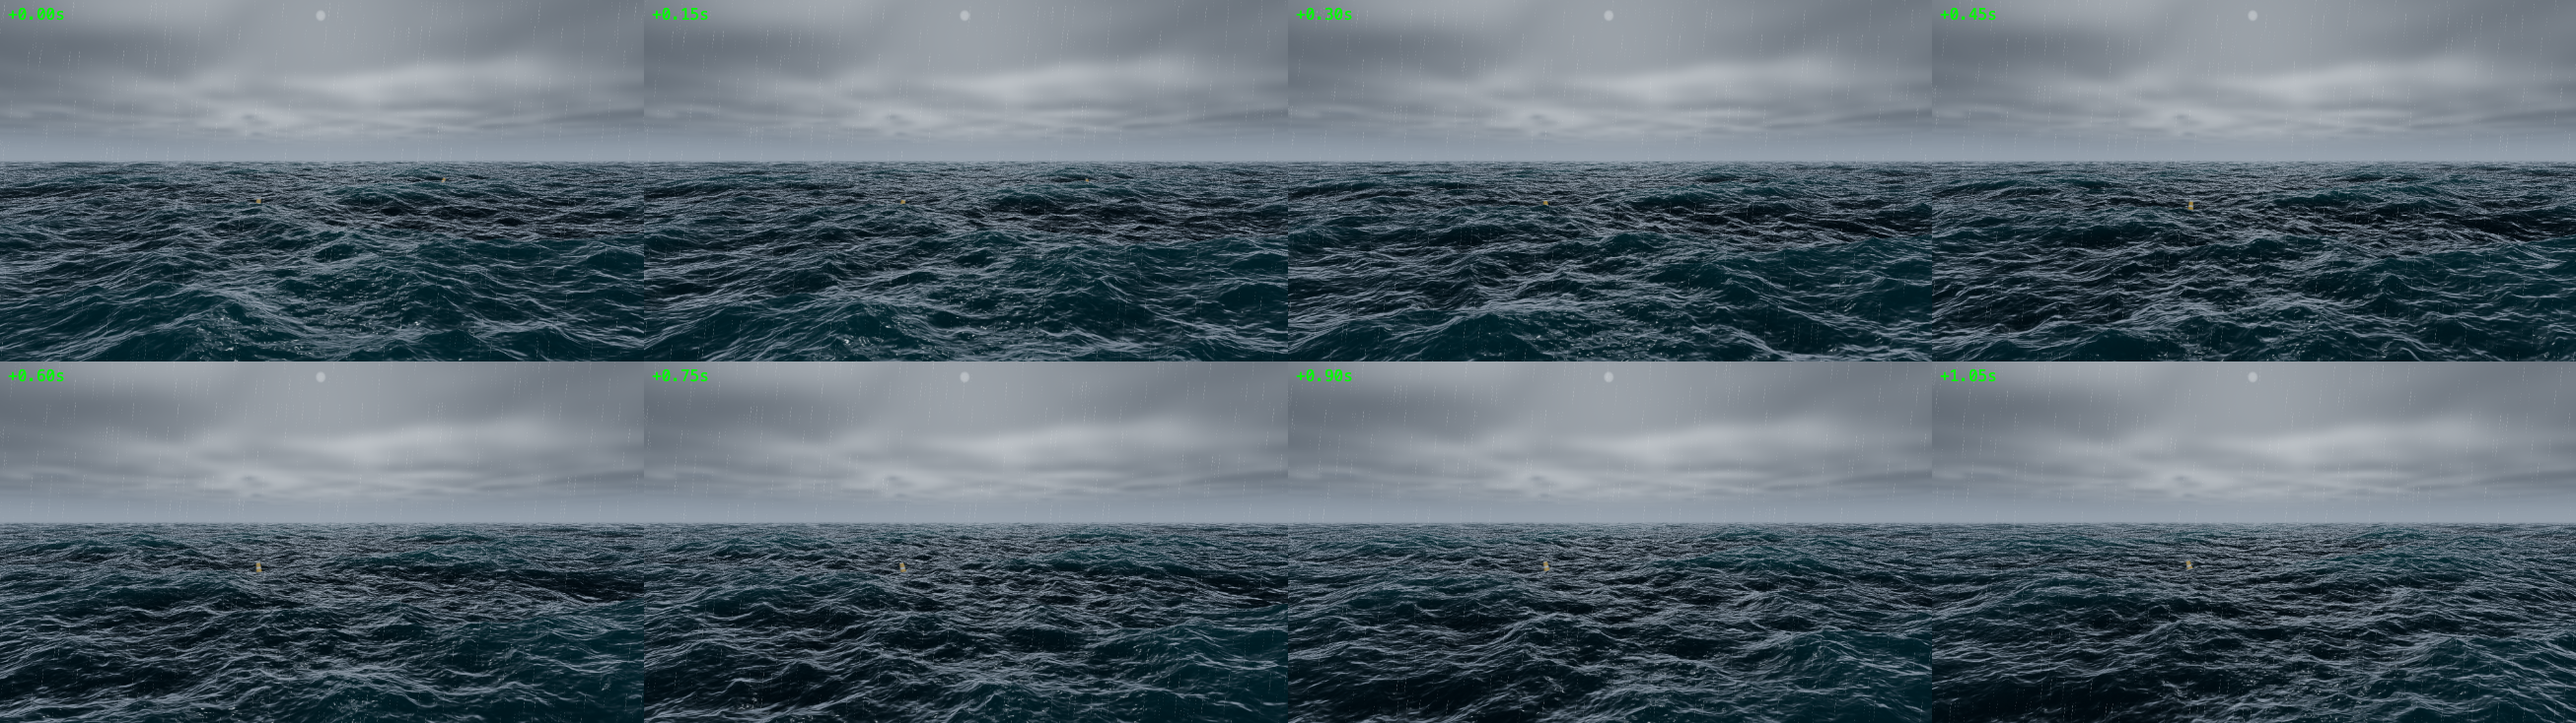
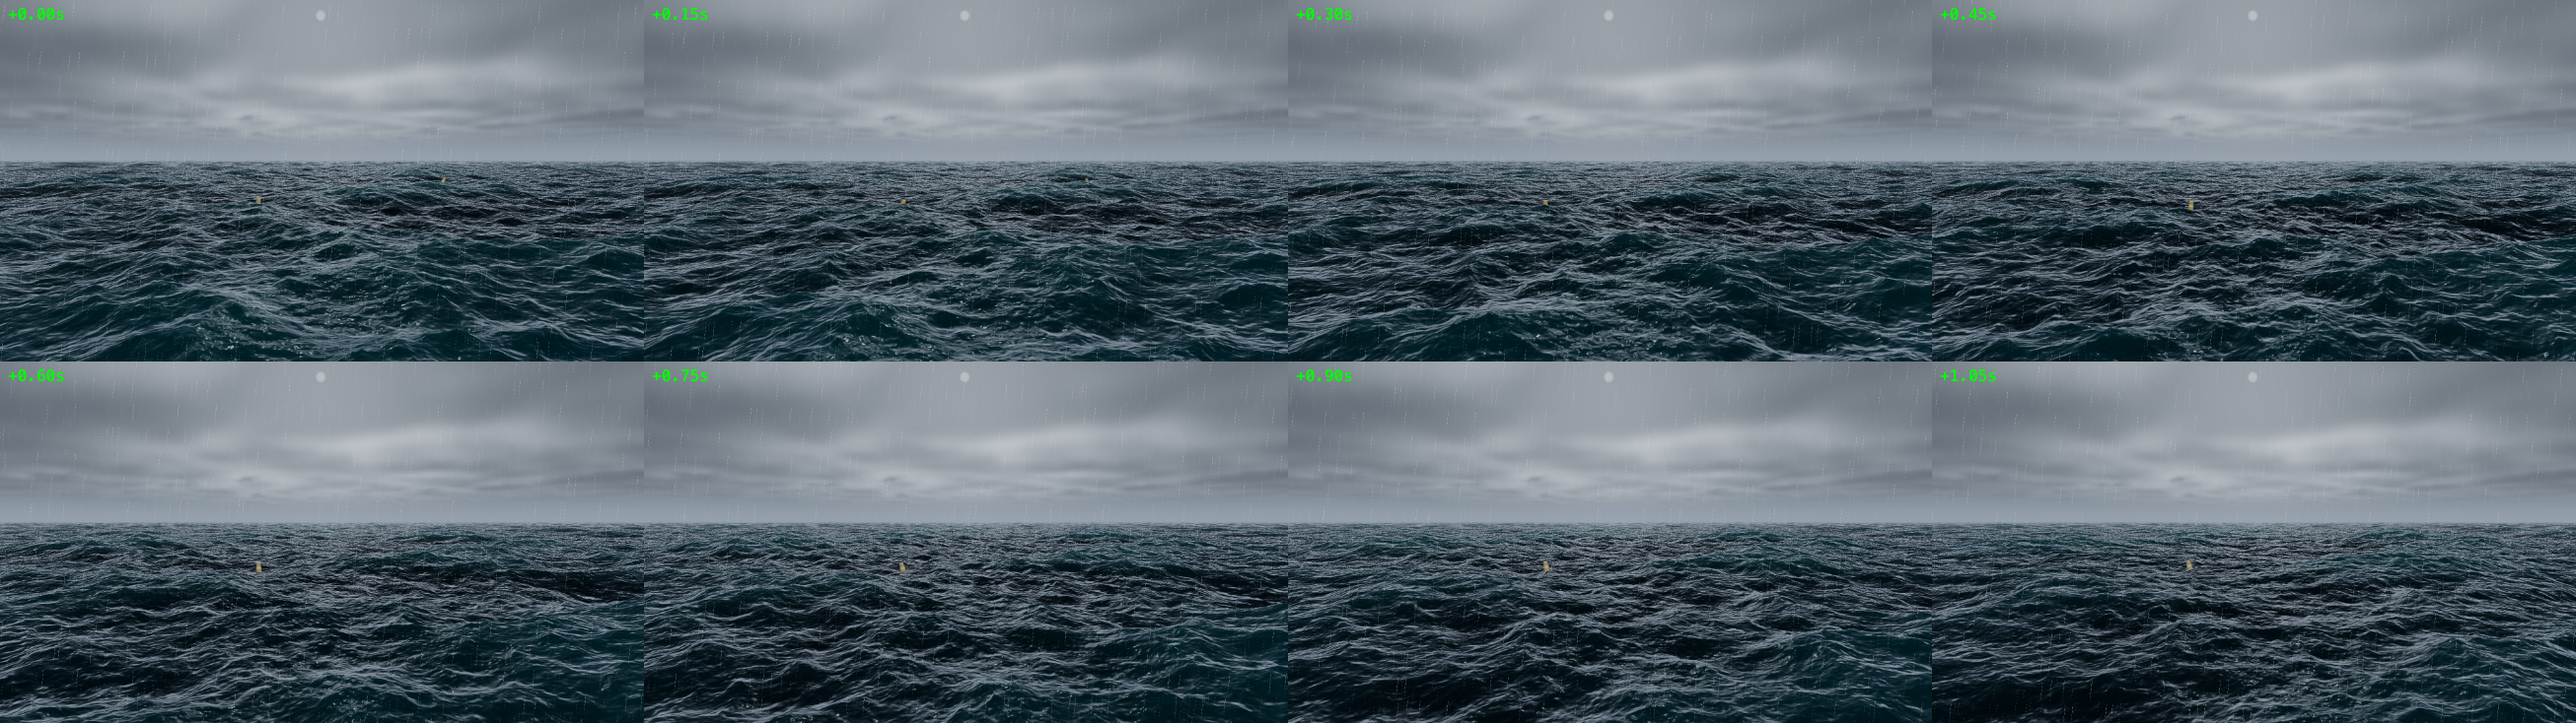
Give the wake its own clock instead of the whitecaps'
The white lines behind her were not a shape problem and moving the wake into
world space did not fix them, because both versions wrote into the same channel
as the breaking-crest foam and inherited its decay. That lifetime is
`0.2 + persistence^2 * 42` — 21 s on Open Sea, 34 s on Storm Front — which is
right for a foam raft left by a breaking crest, which is what it was written
for. At 1.55 m/s it is 32 to 53 metres of trail, and the deposit peaked at 1.35
before the clamp, so the trail started at full white and had a long way to fall
before it dropped under the foam threshold at all. That is the white line.

It was not a tuning error. A hull's churn and a breaking crest are different
processes with different time constants, and there was only one time constant
between them. The history target is RGBA and only .r was in use, so the wake now
carries in .g on a fixed 8 s clock — entrained air surfaces and bursts in well
under ten seconds no matter what the sea state is doing to whitecaps — and the
surface reads max(r, g). Same texture, same pass, no extra cost.

The paint window comes in from 26 m to 14 m astern, so it covers only water the
hull is actually working, and the deposit drops to 0.58/0.34 so the trail lands
mid-scale. The visible length is now speed times lifetime rather than a number
chosen to look right.

Also deleted the entire Kelvin figure still being computed in the surface shader
and then discarded — dead ALU on every pixel near the boat, and it read as
[…]

diff --git a/src/ocean/foam.js b/src/ocean/foam.js
@@ -20,7 +20,7 @@
 // in the same pass.
 
 import { HalfFloatType, LinearFilter, Mesh, MeshBasicNodeMaterial, OrthographicCamera, PlaneGeometry, RGBAFormat, RenderTarget, Scene, Vector2 } from 'three/webgpu';
-import { Fn, If, abs, exp, float, length, max, min, oneMinus, saturate, smoothstep, step, texture, uniform, uv, vec2, vec3, vec4 } from 'three/tsl';
+import { Fn, If, abs, exp, float, length, max, min, oneMinus, saturate, smoothstep, step, texture, uniform, uv, vec2, vec4 } from 'three/tsl';
 
 import { createWaveEvaluator, foamFromJacobian } from './waves.js';
 
@@ -71,6 +71,7 @@ export class FoamHistory {
 		this.uPrevOrigin = uniform( new Vector2() );
 		this.uWindow = uniform( this.window );
 		this.uDecay = uniform( 0.99 );
+		this.uWakeDecay = uniform( 0.99 );          // the hull's churn, on its own clock
 		this.uAdvect = uniform( new Vector2() );      // world-space drift this frame
 		this.uSourceGain = uniform( 1 );
 
@@ -121,7 +122,10 @@ export class FoamHistory {
 			const inside = step( 0.0, prevUV.x ).mul( step( prevUV.x, 1.0 ) )
 				.mul( step( 0.0, prevUV.y ) ).mul( step( prevUV.y, 1.0 ) );
 
-			const carried = this.prevTexture.sample( prevUV ).r.mul( inside ).mul( this.uDecay ).toVar( 'foamCarried' );
+			const prev = this.prevTexture.sample( prevUV ).toVar( 'foamPrev' );
+
+			const carried = prev.r.mul( inside ).mul( this.uDecay ).toVar( 'foamCarried' );
+			const carriedWake = prev.g.mul( inside ).mul( this.uWakeDecay ).toVar( 'wakeCarried' );
 
 			/* --- fresh foam from the crest mask -------------------------- */
 
@@ -181,11 +185,25 @@ export class FoamHistory {
 
 			/* --- the vessel's wake, laid into the world ------------------ */
 
-			// This is the whole point of putting it here rather than in the surface
-			// shader. A wake drawn in the hull's frame is rigidly attached to the
-			// boat and reads as a white tail being towed; deposited into the history
-			// it stays where the water was disturbed, decays on the buffer's own
-			// clock, and drifts downwind with everything else.
+			// A wake drawn in the hull's frame is rigidly attached to the boat and
+			// reads as a white tail being towed, so it is deposited into the world
+			// here instead — but into its *own channel*, on its own clock.
+			//
+			// Sharing `.r` with the whitecaps was the reason a hard white V kept
+			// trailing her. The whitecap lifetime is `0.2 + persistence^2 * 42`,
+			// which the presets set to 21 s on Open Sea and 34 s on Storm Front —
+			// correct for a foam raft left by a breaking crest, which is what it was
+			// written for. At 1.55 m/s that is 32 to 53 metres of trail, deposited
+			// at saturation, on top of the 26 m the paint window covered anyway. It
+			// was not a tuning error: a hull's churn and a breaking crest are
+			// different processes and there was only one time constant between them.
+			//
+			// Bubbles entrained by a displacement hull surface and burst in under ten
+			// seconds. So the wake gets ~8 s, the paint window is pulled in to the
+			// water actually being worked, and the length that comes out is speed
+			// times lifetime rather than a number chosen to look right.
+			const wake = float( 0 ).toVar( 'wakeSource' );
+
 			If( u.vesselMix.greaterThan( 0.001 ), () => {
 
 				const rel = worldXZ.sub( u.vesselPos.xz ).toVar( 'wakeRel' );
@@ -199,24 +217,28 @@ export class FoamHistory {
 				const across = abs( local.x ).toVar( 'wAcross' );
 
 				// Kelvin arms at the fixed half-angle, plus the churn between them.
-				// Only the freshly disturbed water is written; the buffer's decay
-				// does the rest, so there is no length constant to tune here.
 				const arm = exp( abs( across.sub( astern.mul( 0.354 ) ) ).mul( - 1.9 ) );
 				const trail = exp( across.div( astern.mul( 0.16 ).add( 1.6 ) ).mul( - 2.2 ) );
 
-				const fresh = smoothstep( 0.0, 3.0, astern ).mul( oneMinus( smoothstep( 4.0, 26.0, astern ) ) );
+				// Only where the hull is actually working the water. Past a boat
+				// length astern nothing new is being aerated — what is there is what
+				// was left behind, and that is the decay's business, not the brush's.
+				const fresh = smoothstep( 0.0, 2.0, astern ).mul( oneMinus( smoothstep( 3.0, 14.0, astern ) ) );
 
-				source.assign( max( source,
-					arm.mul( 0.85 ).add( trail.mul( 0.5 ) ).mul( fresh ).mul( u.vesselSpeed )
-				) );
+				// Deposited below saturation. At 0.85 the arms landed at 1.0 after
+				// the clamp, so the trail started at full white and had a long way to
+				// fall before it dropped under the foam threshold at all — which is
+				// what made it read as a painted line rather than as disturbed water.
+				wake.assign( arm.mul( 0.58 ).add( trail.mul( 0.34 ) ).mul( fresh ).mul( u.vesselSpeed ) );
 
 			} );
 
 			// max(), not add(): foam saturates. Adding would let a persistent
 			// crest run away to a hard white slab.
 			const result = max( carried, source ).toVar( 'foamResult' );
+			const wakeResult = max( carriedWake, wake ).toVar( 'wakeResult' );
 
-			return vec4( vec3( saturate( result ) ), 1.0 );
+			return vec4( saturate( result ), saturate( wakeResult ), 0.0, 1.0 );
 
 		} )();
 
@@ -251,7 +273,8 @@ export class FoamHistory {
 			min( smoothstep( 0.0, 0.06, uvNode.y ), smoothstep( 1.0, 0.94, uvNode.y ) )
 		);
 
-		return this.historyTexture.sample( saturate( uvNode ) ).r.mul( edge );
+		const h = this.historyTexture.sample( saturate( uvNode ) ).toVar( 'foamHist' );
+		return max( h.r, h.g ).mul( edge );
 
 	}
 
@@ -280,6 +303,11 @@ export class FoamHistory {
 		const lifetime = 0.20 + p.foamPersistence * p.foamPersistence * 42;
 		this.uDecay.value = Math.exp( - dt / lifetime );
 
+		// The wake's own clock. Entrained air surfaces and bursts in well under ten
+		// seconds regardless of what the sea state is doing to breaking crests, so
+		// this is a constant rather than another preset knob.
+		this.uWakeDecay.value = Math.exp( - dt / 8.0 );
+
 		this.uSourceGain.value = p.foamPersistence > 0 ? 1 : 0;
 
 		const write = this.targets[ this.read ];
@@ -294,6 +322,7 @@ export class FoamHistory {
 			this.uPrevOrigin.value.copy( this.uOrigin.value );
 			this.uAdvect.value.set( 0, 0 );
 			this.uDecay.value = 0;
+			this.uWakeDecay.value = 0;
 			this._first = false;
 
 		}

diff --git a/src/ocean/material.js b/src/ocean/material.js
@@ -664,41 +664,19 @@ export function createOceanMaterial( env, field, sky, opts = {} ) {
 			// the hull is unmistakably a drawn outline; aeration is patchy.
 			const torn = foamFine.mul( 0.55 ).add( foamPatch.mul( 0.45 ) ).add( 0.30 );
 
-			/* --- wake ---------------------------------------------------- */
-
-			// Metres astern of the transom, and metres off the track.
-			const astern = max( hullLocalOut.y.negate().sub( u.vesselHalf.y.mul( 0.75 ) ), float( 0.0 ) ).toVar( 'wakeAstern' );
-			const across = abs( hullLocalOut.x ).toVar( 'wakeAcross' );
-
-			// The two Kelvin arms sit on a fixed half-angle from the track — about
-			// 19.5 degrees for any displacement hull at any speed, which is why a
-			// wake is recognisable at all. They are the shape; the centre trail is
-			// just churn, so it spreads and fades much faster.
-			const arm = exp( abs( across.sub( astern.mul( 0.354 ) ) ).mul( - 1.9 ) );
-			const trail = exp( across.div( astern.mul( 0.16 ).add( 1.6 ) ).mul( - 2.2 ) );
-
-			// Three knots is a modest wake. The first pass poured a solid white
-			// river down the arms because the amount fed straight past the foam
-			// mask's upper threshold and saturated — everything above 0.70 looks
-			// identical, so the whole trail flattened into one shape with no edge.
-			// A wake dissipates. The old length scale left a hard white line running
-			// off to the horizon behind her, which reads as painted-on rather than as
-			// water closing over a hull. It also tears apart as it ages, so the noise
-			// takes over from the shape with distance astern.
-			const age = saturate( astern.mul( 0.022 ) ).toVar( 'wakeAge' );
-			const decay = exp( astern.mul( - 0.10 ) ).mul( smoothstep( 0.0, 3.0, astern ) )
-				.mul( mix( float( 1.0 ), foamFine.mul( 1.6 ).sub( 0.55 ), age ) );
-			const wake = arm.mul( 0.42 ).add( trail.mul( 0.26 ) ).mul( decay ).mul( u.vesselSpeed ).toVar( 'wake' );
-
 			// Bow wave. A hull pushing water has a bright, hard shoulder ahead of the
 			// stem — brighter than anything in the wake, because the water there is
-			// being lifted and aerated rather than merely disturbed.
+			// being lifted and aerated rather than merely disturbed. This is the only
+			// part of the boat's foam that belongs in the hull's frame, because it is
+			// the only part that is genuinely a function of where the hull is *now*.
 			//
-			// The *wake* is not drawn here any more. Drawn in the hull's frame it was
-			// rigidly attached to the boat — a white tail towed along behind her
-			// rather than a disturbance left in the water. It is deposited into the
-			// world-space foam history instead, where it stays put and decays, which
-			// is what a wake actually does.
+			// The wake is deposited into the world-space foam history instead. The
+			// previous version of this block still computed the whole Kelvin figure
+			// here — arms, centre trail, an age-driven decay — and then never used it.
+			// Dead ALU on every pixel near the boat, and worse, it read as though the
+			// surface shader were still responsible for the wake, which sent me back
+			// to it twice while looking for the trailing white lines.
+			const across = abs( hullLocalOut.x ).toVar( 'wakeAcross' );
 			const ahead = max( hullLocalOut.y.sub( u.vesselHalf.y.mul( 0.55 ) ), float( 0.0 ) ).toVar( 'bowAhead' );
 			const bow = exp( abs( across.sub( ahead.mul( 0.62 ).add( 0.9 ) ) ).mul( - 2.2 ) )
 				.mul( oneMinus( smoothstep( 0.0, 5.5, ahead ) ) )
